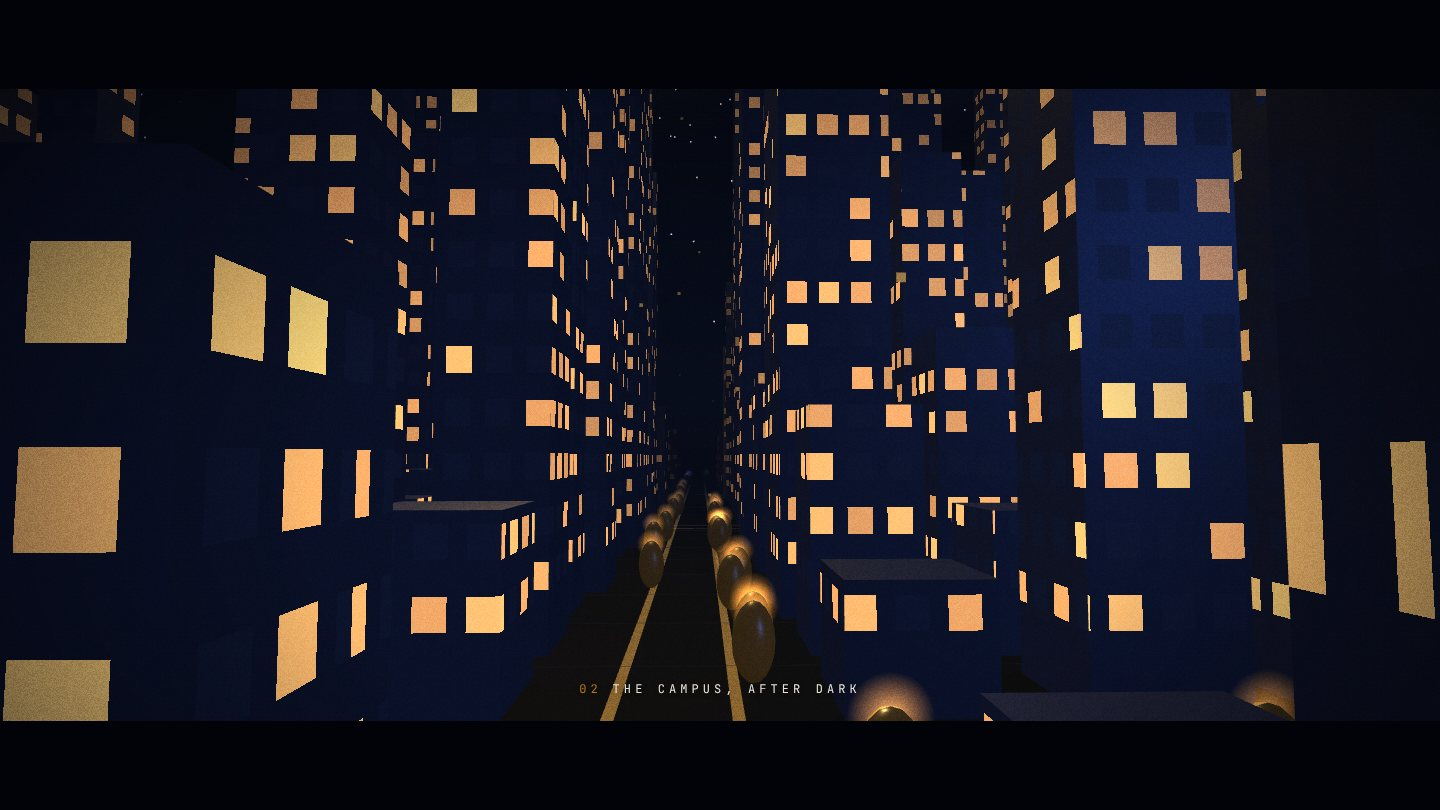
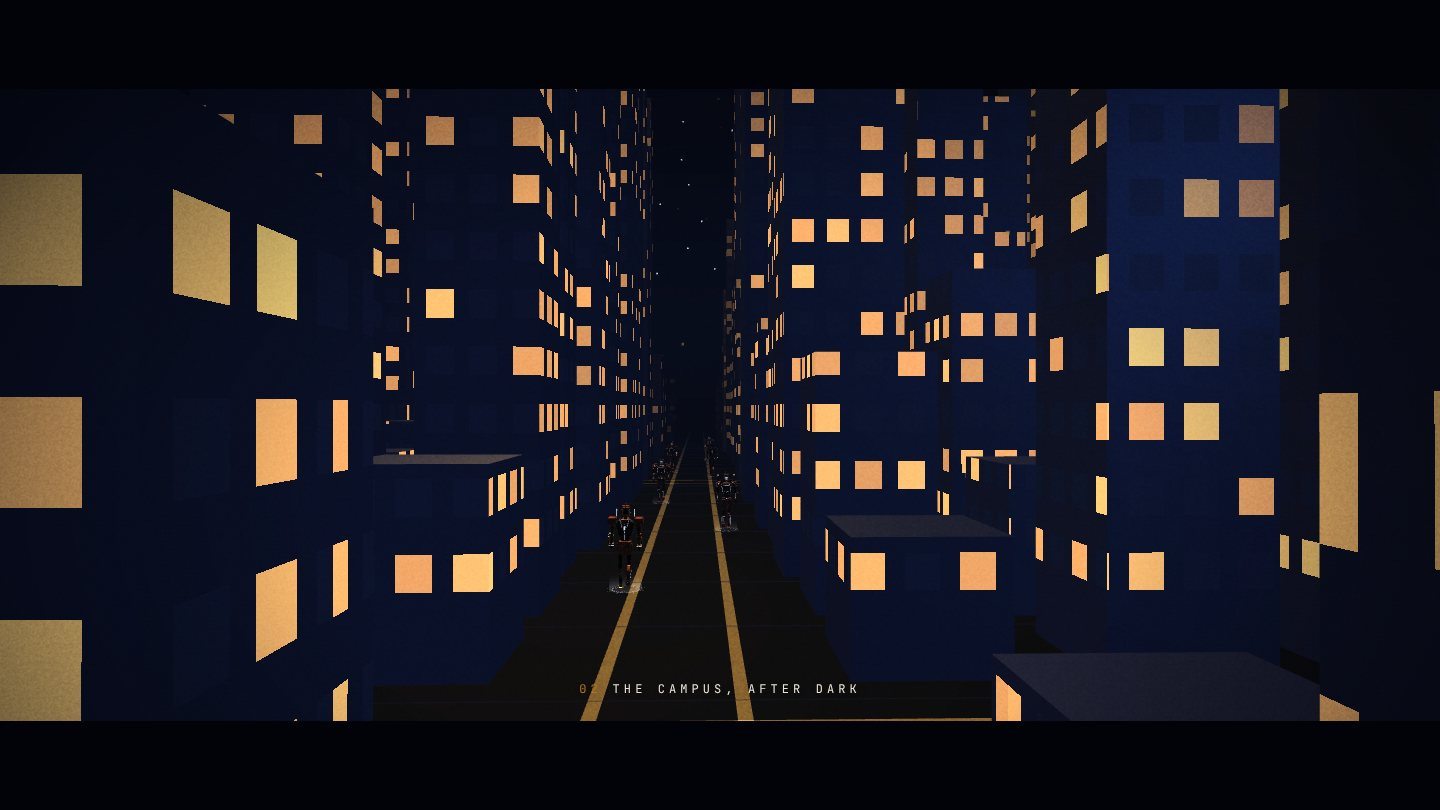
[vault] cutscene: real Sentinel walkers on the avenue, no ground seam at dawn
Agent: claude-code
Claude-Session: https://claude.ai/code/session_01MkUW38bkew4RiZ6fMxjANe

diff --git a/web-src/f_title.js b/web-src/f_title.js
@@ -179,7 +179,8 @@ function makeCity(canvas,quality){
       m4.makeScale(road[k]?0:W[k],road[k]?0:h,road[k]?0:W[k]);m4.setPosition(X(i),0,X(j));mesh.setMatrixAt(k,m4);
       const warm=lit[k]>.86;const glow=e*(warm?.5+.5*Math.sin(time*1.1+lit[k]*40):0);col.setRGB(.11+glow*.3+lit[k]*.04,.13+glow*.18+lit[k]*.04,.22+lit[k]*.06);mesh.setColorAt(k,col)}
     mesh.instanceMatrix.needsUpdate=true;if(mesh.instanceColor)mesh.instanceColor.needsUpdate=true}
-  const ground=new THREE.Mesh(new THREE.PlaneGeometry(SPAN*4,SPAN*4),new THREE.MeshStandardMaterial({color:0x070a14,roughness:.85,metalness:.2}));ground.rotation.x=-Math.PI/2;ground.position.y=-.01;scene.add(ground);
+  // ground: a disc inside the sky dome that writes no depth, so it never clips the low dawn sun; fog carries it into the horizon
+  const ground=new THREE.Mesh(new THREE.CircleGeometry(580,72),new THREE.MeshStandardMaterial({color:0x070a14,roughness:.85,metalness:.2,depthWrite:false}));ground.rotation.x=-Math.PI/2;ground.position.y=-.01;ground.renderOrder=-1;scene.add(ground);
   const grid=new THREE.GridHelper(SPAN,G,0x1d2648,0x141a30);grid.material.transparent=true;grid.material.opacity=.45;scene.add(grid);
   // gold light lines down the avenues
   const lineM=new THREE.MeshBasicMaterial({color:0xe8a33d,transparent:true,opacity:0,blending:THREE.AdditiveBlending,depthWrite:false});
@@ -196,6 +197,19 @@ function makeCity(canvas,quality){
   const shp=new Float32Array(SNT*3),shg=new THREE.BufferGeometry();shg.setAttribute("position",new THREE.BufferAttribute(shp,3));
   const sheadM=new THREE.PointsMaterial({map:glowTex([[0,"rgba(255,236,200,1)"],[.25,"rgba(255,200,120,.8)"],[1,"rgba(232,163,61,0)"]],64),color:0xffd08a,size:1.9,transparent:true,depthWrite:false,blending:THREE.AdditiveBlending});
   const sheads=new THREE.Points(shg,sheadM);sheads.frustumCulled=false;scene.add(sheads);
+  // real Sentinels on the main avenue (skinned rig, speed-matched gait). The instanced walkers above are the fallback.
+  const FIG=[];
+  if(typeof SentinelMesh!=="undefined"&&SentinelMesh.create){
+    const forms=["agent","member","jr","devon","ahmad","kenza","agent","member","agent","member"],small=hi&&Math.min(innerWidth,innerHeight)>=700;
+    const n=small?10:6,Z0=SPAN*.4,ZL=SPAN*.36+30;
+    for(let k=0;k<n;k++){try{const m=SentinelMesh.create({id:"title:"+k,form:forms[k],level:[0,4,9,14,20,26][k%6],celebrateLevelUp:false});
+      const bb=new THREE.Box3().setFromObject(m.grp),hgt=bb.max.y-bb.min.y;if(hgt>0)m.grp.scale.setScalar(2.1/hgt);
+      const dir=k%3===1?-1:1;m.grp.rotation.y=dir>0?0:Math.PI;scene.add(m.grp);
+      FIG.push({m,dir,x:RX+(k%2?1.25:-1.25)+(seed(k,11)-.5)*.35,ph:(k+seed(k,13)*.6)/n*ZL,sp:1.2+seed(k,17)*.5,Z0,ZL})}catch(e){break}}
+    if(FIG.length){sbody.visible=false;sheads.visible=false}}
+  function walkFig(time,vis){for(const f of FIG){const g=f.m.grp;g.visible=vis>.01;if(!g.visible)continue;
+      const p=((f.ph+time*f.sp)%f.ZL+f.ZL)%f.ZL;g.position.set(f.x,0,f.dir>0?f.Z0-f.ZL+p:f.Z0-p);
+      try{SentinelMesh.pose(f.m,time,"walking",{speed:f.sp})}catch(e){}}}
   function walk(time,vis){for(let k=0;k<SNT;k++){const s=sent[k];let p=((s.ph+time*s.sp*1.4)%SPAN+SPAN)%SPAN-SPAN/2;const b=Math.abs(Math.sin(time*5.2+s.bob))*.08;
       const x=s.alongZ?s.lane+s.off:p,z=s.alongZ?p:s.lane+s.off;m4.makeScale(.42*vis,.78*vis,.42*vis);m4.setPosition(x,.78*vis+b,z);sbody.setMatrixAt(k,m4);
       shp[k*3]=x;shp[k*3+1]=(1.45+b)*vis;shp[k*3+2]=z}
@@ -224,14 +238,14 @@ function makeCity(canvas,quality){
   function shotSky(c,t){const u=clamp(t/CUT.x2,0,1),tilt=ease(clamp((t-.7)/4.2,0,1));
     c.position.set(lerp(-26,-14,u),lerp(5,16,u),SPAN*.78*wide-u*16);tgt.set(lerp(-14,0,tilt),lerp(170,10,tilt),lerp(-80,0,tilt));c.fov=lerp(52,46,u)}
   function shotStreet(c,t){const u=clamp((t-CUT.x1)/(9.3-CUT.x1),0,1),e=u*u*(3-2*u)*.35+u*.65;
-    const z=lerp(SPAN*.44,SPAN*.04,e);c.position.set(RX+Math.sin(u*2.2)*.5,lerp(2.3,6.5,e),z);tgt.set(RX+Math.sin(u*2.2+.5)*1.3,lerp(4.2,9,e),z-34);c.fov=lerp(60,50,u)}
+    const z=lerp(SPAN*.44,SPAN*.04,e);c.position.set(RX+Math.sin(u*2.2)*.5,lerp(2.6,6.2,e),z);tgt.set(RX+Math.sin(u*2.2+.5)*1.3,lerp(2.4,6.5,e),z-34);c.fov=lerp(56,48,u)}
   function shotDawn(c,t,orbit){const u=ease(clamp((t-CUT.x2)/6.6,0,1));const a=-1.02+u*.3+orbit;const d=SPAN*lerp(.86,.78,u)*wide;
     c.position.set(Math.sin(a)*d,SPAN*lerp(.2,.27,u),Math.cos(a)*d);tgt.set(0,lerp(9,14,u),0);c.fov=lerp(40,36,u)}
   const SHOTS=[{a:-1,b:CUT.x1+.7,f:shotSky},{a:CUT.x1,b:CUT.x2+.7,f:shotStreet},{a:CUT.x2,b:1e9,f:shotDawn}];
   function place(c,s,t,orbit){s.f(c,t,orbit);c.lookAt(tgt);c.updateProjectionMatrix()}
   // t: cutscene clock (s); time: wall clock for loops; orbit: radians added in the menu
   function render(t,time,orbit){size();
-    write(clamp((t-.2)/5.4,0,1.8),time);walk(time,clamp((t-2.5)/2,0,1));
+    write(clamp((t-.2)/5.4,0,1.8),time);const wv=clamp((t-2.5)/2,0,1);if(FIG.length)walkFig(time,wv);else walk(time,wv);
     const dawn=clamp((t-8.2)/5.5,0,1);skyU.dawn.value=dawn;
     skyU.zen.value.setRGB(lerp(.012,.10,dawn),lerp(.02,.13,dawn),lerp(.047,.26,dawn));skyU.hor.value.setRGB(lerp(.043,.46,dawn),lerp(.07,.27,dawn),lerp(.15,.2,dawn));
     starM.opacity=.9*(1-dawn*.9);nebM.opacity=.9*(1-dawn);
@@ -243,7 +257,7 @@ function makeCity(canvas,quality){
     if(live.length>1){const A=live[0],B=live[1];place(camA,A,t,orbit);place(camB,B,t,orbit);postU.f.value=(t-B.a)/(A.b-B.a);
       r.setRenderTarget(rtA);r.render(scene,camA);r.setRenderTarget(rtB);r.render(scene,camB);r.setRenderTarget(null);r.render(post,ortho)}
     else{place(camA,live[0]||SHOTS[2],t,orbit);r.setRenderTarget(null);r.render(scene,camA)}}
-  function dispose(){scene.traverse(o=>{if(o.geometry)o.geometry.dispose();if(o.material){[].concat(o.material).forEach(m=>{if(m.map)m.map.dispose();m.dispose()})}});
+  function dispose(){FIG.forEach(f=>{scene.remove(f.m.grp);try{SentinelMesh.dispose(f.m.grp)}catch(e){}});FIG.length=0;scene.traverse(o=>{if(o.geometry)o.geometry.dispose();if(o.material){[].concat(o.material).forEach(m=>{if(m.map)m.map.dispose();m.dispose()})}});
     post.traverse(o=>{if(o.geometry)o.geometry.dispose();if(o.material)o.material.dispose()});rtA.dispose();rtB.dispose();r.dispose();try{r.forceContextLoss()}catch(e){}}
   return{render,dispose};
 }
